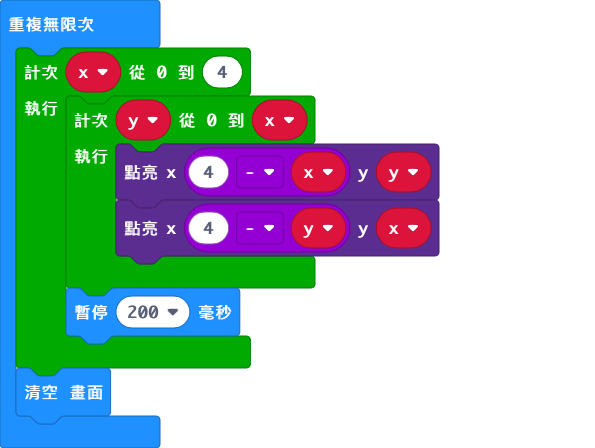
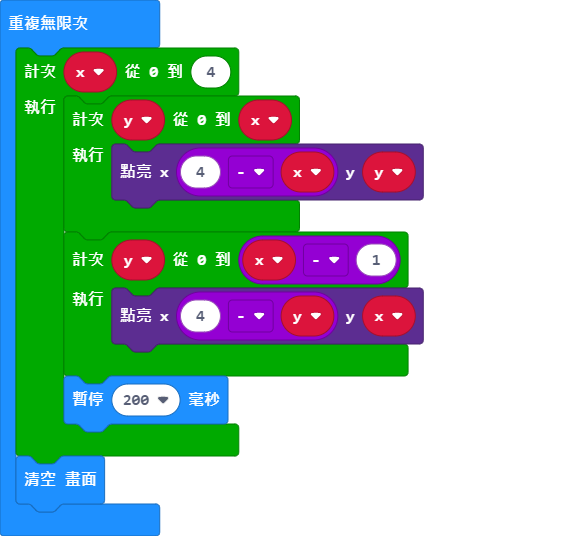
Update main.blocks, main.ts

diff --git a/main.ts b/main.ts
@@ -2,6 +2,8 @@ basic.forever(function () {
     for (let x = 0; x <= 4; x++) {
         for (let y = 0; y <= x; y++) {
             led.plot(4 - x, y)
+        }
+        for (let y = 0; y <= x - 1; y++) {
             led.plot(4 - y, x)
         }
         basic.pause(200)
